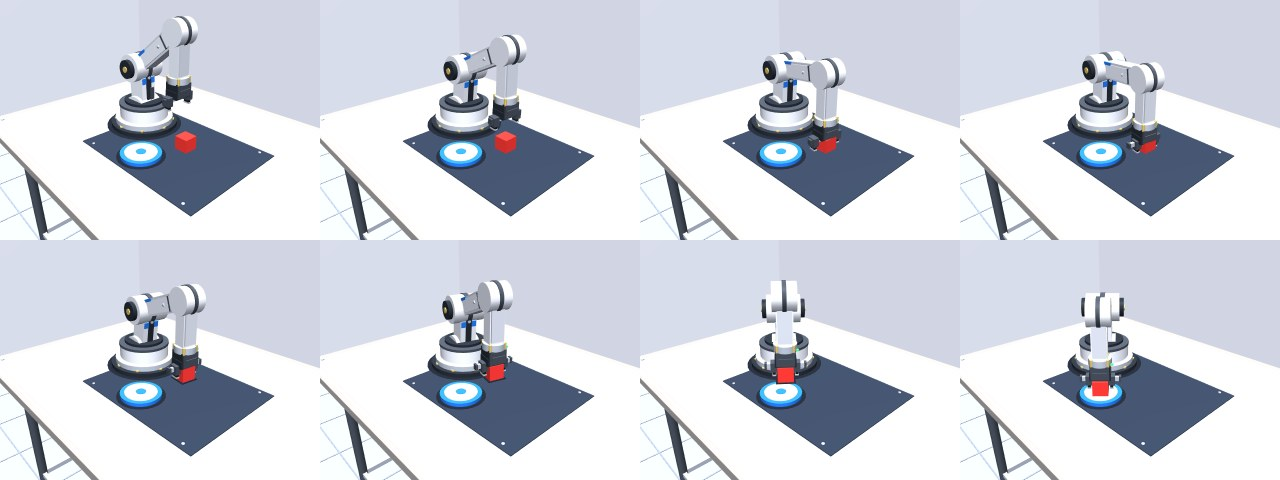
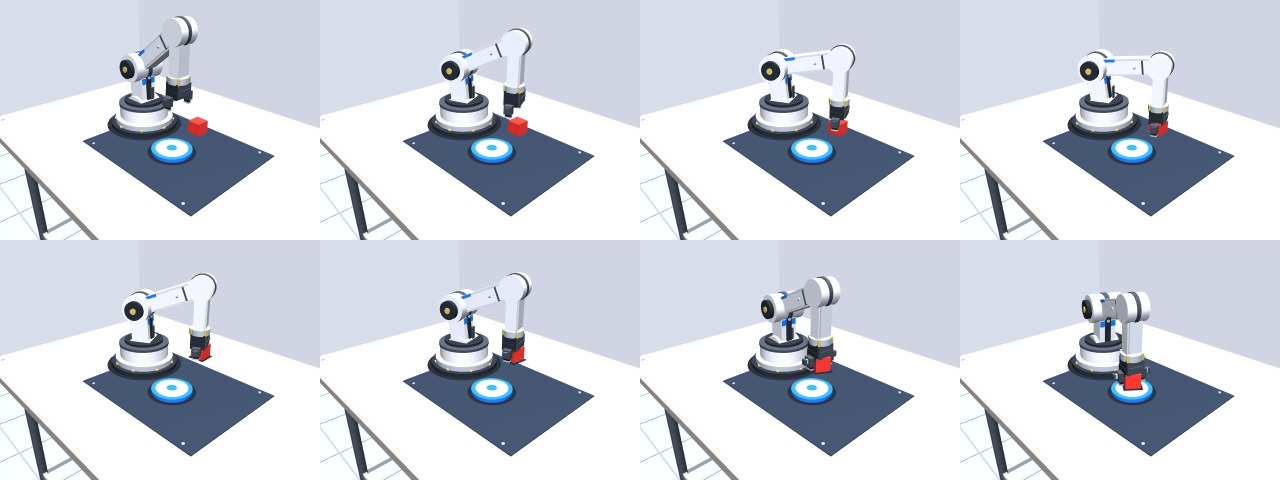
feat: 盘子随机化后的重训结果 + 遥操作加鼠标视角 + 修夹爪抓不牢
盘子随机化的结论（重要）：
- 把盘子位置也随机化之后重采 300 条、重训 40000 步，分布内仍然 50/50 全中，
  开环也是 50/50。**挪动目标位置制造不出学习难度**，这个任务对 ACT 还是太简单。
- 唯一可测的退化是落点精度：固定盘子 ~3 mm → 随机盘子 ~8 mm。说明模型确实不再
  "预知"盘子位置，但完全扛得住。
- 下一版要真变难，得动方块朝向、干扰物、遮挡这些。

夹爪抓不牢（用户实际操作的反馈）：
- 手指 kp=150 时两根手指合计只有约 0.3 N 正压力，方块重 0.4 N。
  靠摩擦勉强吊着，搬运时在爪内滑 40 mm，动作大一点 1/3 概率直接甩掉。
- 提到 400：滑移 6.9 mm，晃动测试 3/3 全没掉。夹持位不变（0.004），不会夹坏方块。

遥操作：
- 加鼠标控制视角：左键拖动转、滚轮缩放、R 回正。死角里能转过去看，不用猜
- 修 --ood 评估报错：外部分指定方块位置时，盘子采样不该再要求"专家轨迹可达"，
  因为分布外测试本来就是专家够不着的位置

文档：README 更新到 v2 结果，换掉策略示意图（改成盘子随机的那版）。

diff --git a/键位说明.html b/键位说明.html
@@ -114,6 +114,36 @@
     </div>
   </div>
 
+  <h2>看视角（鼠标）</h2>
+  <div class="rows">
+
+    <div class="row view">
+      <div class="keys"><kbd class="wide">左键拖动</kbd></div>
+      <div class="desc">
+        绕着场景转一圈
+        <em>抓手被挡住、或者想从侧面确认对位准不准，就转一下。<br>
+            左右拖是绕圈，上下拖是俯仰。</em>
+      </div>
+    </div>
+
+    <div class="row view">
+      <div class="keys"><kbd class="wide">滚轮</kbd></div>
+      <div class="desc">
+        拉近 / 推远
+        <em>往前滚放大，往后滚缩小。</em>
+      </div>
+    </div>
+
+    <div class="row view">
+      <div class="keys"><kbd>R</kbd></div>
+      <div class="desc">
+        视角回正
+        <em>转晕了按一下就回到默认角度。</em>
+      </div>
+    </div>
+
+  </div>
+
   <h2>其余按键</h2>
   <div class="rows">
 

diff --git a/sim/env.py b/sim/env.py
@@ -233,8 +233,10 @@ class PickPlaceEnv:
             if cube_xy is not None:
                 if np.hypot(x - cube_xy[0], y - cube_xy[1]) < MIN_CUBE_PLATE_DIST:
                     continue
-                if not trail_reachable((cube_xy[0], cube_xy[1], CUBE_REST_Z), (x, y)):
-                    continue
+                # 这里**不**校验专家轨迹是否可达。
+                # 这个分支只在外部分指定方块位置时走到（比如评估用的分布外测试），
+                # 那种位置本来就是专家够不着的；拿专家的可达性去卡它，
+                # 会导致"找不到可用盘子"直接报错，测不了。
             return float(x), float(y)
         return None
 

diff --git a/README.md b/README.md
@@ -9,7 +9,7 @@
 
 ---
 
-## 进度（2026-11-06）
+## 进度（2026-11-07）
 
 | 模块 | 状态 | 说明 |
 |---|---|---|
@@ -19,13 +19,14 @@
 | 抓取放置（规则版） | ✅ | 逆解轨迹，全程到位误差 ≈ 1 mm |
 | Web 演示 | ✅ | 实时画面 + 自由视角 + 一句话下指令 |
 | 指令解析层 | ✅ | 多供应商 + 规则兜底，换 LLM 只改配置 |
-| **示范数据采集** | ✅ | 300 条轨迹 / 23750 帧 / 72 MB，专家策略 300/300 成功 |
-| **ACT 策略训练** | ✅ | 40000 步，约 58 分钟，显存峰值 1.66 GB |
-| **闭环评估** | ✅ | 见第四节 |
+| 示范数据采集（机器） | ✅ | 300 条 / 23277 帧，方块和**盘子位置都随机**，专家 300/300 |
+| ACT 策略训练 | ✅ | 40000 步，约 57 分钟，显存峰值 1.66 GB |
+| 闭环评估 | ✅ | 分布内 50/50；见第四节 |
+| **遥操作采集（人类）** | ✅ | 工具做完并验证；等你采数据 |
 | 网页接策略 | ❌ | 现在网页跑的还是逆解轨迹，不是模型 |
 | 真机迁移 | ❌ | 校赛后再考虑 |
 
-**一句话总结**：整条链路已经通了，而且有了**自己训练出来的模型**——它只看画面和关节角，不知道方块坐标，在没见过的位置上也能抓。
+**一句话总结**：整条链路已经通了，而且有了**自己训练出来的模型**——它只看画面和关节角，不知道方块和盘子的坐标，在没见过的位置上也能抓。
 
 ---
 
@@ -115,43 +116,46 @@ ACT（Action Chunking Transformer）：一次预测未来 100 步的动作，用
 
 ## 四、训练结果
 
-**数据**：300 条轨迹 / 23750 帧（4.0 秒/条）
-**训练**：40000 步（约 27 个 epoch），56.6 分钟，11.9 step/s，显存峰值 1.66 GB，L1 loss 0.620 → 0.049
+**数据**：300 条轨迹 / 23277 帧（3.9 秒/条），方块**和盘子**位置都随机
+**训练**：40000 步（约 27 个 epoch），约 57 分钟，11.9 step/s，显存峰值 1.66 GB
 
 ### 1) 成功率
 
-所有评估用的方块位置都在训练分布内但**训练没见过**（评估种子 10000 起，训练用 0~299）。
+所有评估用的位置都是**训练没见过**的（评估种子 10000 起，训练用 0~299）。
 
-| 训练步数 | 每 20 步重规划 | 开环（执行 100 步再重规划） |
+| 条件 | 每 20 步重规划 | 开环（一次预测完，中途不看反馈） |
 |---|---|---|
-| 10 000 | 20/20 = 100% | 29/30 = 97% |
-| 20 000 | 30/30 = 100% | 30/30 = 100% |
-| 30 000 | 30/30 = 100% | 29/30 = 97% |
-| **40 000（最终）** | **50/50 = 100%** | **49/50 = 98%** |
+| 分布内 | **50/50 = 100%** | **50/50 = 100%** |
 
-> 各档样本量不同（20 / 30 / 30 / 30 / 50 局），早期只是快速确认，最终一档才跑满 50 局。
-> 「开环」是最苛刻的用法：开局看一帧，直接把整段动作预测完，中途不看反馈。
+> 「开环」是最苛刻的用法：开局看一帧就把整段动作预测完。连它都满分，说明这任务对 ACT 确实简单。
 
 ![策略执行](docs/images/policy.jpg)
 
-> 图：**训练出来的 ACT 策略**在执行抓放（由左到右、先上后下）。方块位置是随机化的，模型只看画面。
+> 图：**训练出来的 ACT 策略**在执行抓放（由左到右、先上后下），方块和盘子位置都是随机的。
 
 ### 2) 它真的在看画面吗（消融实验）
 
 | 实验 | 成功率 | 结论 |
 |---|---|---|
 | 正常 | 50/50 = **100%** | |
-| **遮住相机**（画面全黑） | 0/30 = **0%** | 它真的靠画面定位方块，不是背轨迹 |
+| **遮住相机**（画面全黑） | 0/30 = **0%** | 它真的靠画面定位，不是背轨迹 |
 | 抹掉关节角（全置 0） | 5/30 = **17%** | 画面里也能看出机械臂位置，所以还剩一点；但本体感知是必需的 |
-| 分布外（半径 0.25~0.285 m） | 13/30 = **43%** | 训练只到 0.245 m。这是泛化边界，成功的几局落点也从 ~3 mm 退化到 ~15 mm |
+| 分布外（方块半径 0.25~0.285 m） | 19/30 = **63%** | 训练只到 0.245 m。失败的几乎都是"没夹起来"，成功那几局落点也从 ~8 mm 退化到 ~20 mm |
 
 **这组实验比「成功率 100%」更能说明问题**：一个背固定轨迹的模型，遮住相机成功率不会掉。
 
-### 3) 老实说
+### 3) 老实说：把盘子也随机化，**没有**让任务变难
 
-- 这个任务对 ACT **偏简单**，10000 步就接近饱和。继续训练主要改善的是「开环」这种更难的用法（97% → 98%），闭环一直是满分。
-- 出了训练分布就掉到 43%。说明现在的泛化主要来自「同一片区域内插」，不是「任意位置都能干」。
-- 所以下一步真正该做的不是继续堆训练步数，而是**把任务做难**（方块朝向随机、盘子位置随机、加干扰物），让成功率有提升空间，故事也更完整。
+这是这一版最该记住的结论。
+
+- 上一版（2026-11-06）盘子固定在 (0.15, −0.14)，模型闭环 100%、开环 98%。
+- 这一版把盘子也在半径 0.165~0.240 m 内随机化，本以为模型必须"在画面里找盘子"，结果**闭环和开环都还是 100%**。
+- 唯一可测的退化是**落点精度**：固定盘子时 ~3 mm，随机盘子后 ~8 mm。说明它确实不再"预知"盘子在哪，但 ACT 完全扛得住这个变化。
+
+**结论**：光靠"挪动目标位置"制造不出学习难度。这个任务对 ACT 来说太简单了，10000 步就饱和。
+下一版要真正变难，得动这几处：**方块朝向随机**（考验抓取姿态）、**加干扰物**（考验语言指代）、**堆叠/遮挡**（考验空间推理）。
+
+- 出了训练分布就掉到 63%，说明现在的泛化主要是"同一片区域内插"，不是"任意位置都能干"。
 
 ---
 
@@ -167,11 +171,14 @@ sim/
 scripts/
   check_env.py       环境自检（七项）
   check_dataset.py   数据集体检
-  collect.py         采集示范数据
+  collect.py         采集机器示范（解析逆解专家自动生成）
+  teleop.py          采集人类示范（键盘 / 鼠标操作，自己开窗口）
   train_act.py       ACT 训练入口
-  eval_act.py        闭环评估
+  eval_act.py        闭环评估（含消融、分布外实验）
   grasp_demo.py      逆解抓取全流程
   stage0_demo.py     最早的版本：窗口里看机械臂按脚本动
+键位说明.html         遥操作的键位图（浏览器打开）
+遥操作.cmd            双击启动遥操作
 src/llm/             指令解析层
 tests/
   test_llm.py        指令解析的离线测试
@@ -194,14 +201,16 @@ config.json          场景物体表、LLM 供应商链、缓存路径
 3. **Windows 建符号链接需要特权**，训练存档的 `checkpoints/last` 会失败 → 自动降级成目录联接（junction）
 4. **别装 torchcodec**：和 torch 2.11 组合时 DLL 加载失败，LeRobot 会自动回落 `pyav`
 5. **阴影贴图**在这个尺寸下会出锯齿，已关闭，改用几何体做的接触阴影
-6. **机械臂连杆不参与碰撞**，只有手指参与——否则会自碰撞挡死可达范围
+6. **机械臂连杆不参与碰撞**，只有手指参与——否则会自碰撞挡死可达范围。代价是**会穿模**（连杆能穿过桌面）。可以只让连杆和桌子碰撞、不和自己碰撞（MuJoCo 位掩码能分开），但专家轨迹要重新验证，操作时手臂也会被桌子顶住，比穿模更烦，所以先留着
 7. **工具竖直向下时可达范围比想象的小得多**：手腕到肩的距离必须落在 [0.050, 0.350] m。所以采样点要**逐点验证整条轨迹**，不能只验证抓取点
 8. 网页里的输入框是**下机器人指令**的，不是终端
+9. **夹爪刚度不能太低**。手指 kp=150 时两根手指合计只有约 0.3 N 正压力，而方块重 0.4 N——靠摩擦勉强吊着，搬运时在爪内滑 40 mm，动作大一点就有 1/3 概率甩掉。提到 400 后：滑移 6.9 mm、晃动测试 3/3 全都没掉
 
 ---
 
 ## 七、更新日志
 
+- **2026-11-07**　盘子位置随机化（mocap 体）→ 重采 300 条 → 重训 → 分布内仍 100%；**结论：挪动目标位置制造不出难度**。新增遥操作采集工具（Tk 窗口 + 鼠标转视角 + 精细档）；修好夹爪刚度不足导致搬运掉方块（1/3 概率）；补键位说明
 - **2026-11-06**　采 300 条示范 → ACT 训练 40000 步 → 闭环评估 100%；逆解改闭式解（修掉"够不着不报错"的静默错解）；伺服刚度提高 8 倍（末端下垂 10.9 mm → 1.5 mm）；修中文路径下的视频编码失败；补消融与分布外实验
 - **2026-11-05**　仿真环境 + 3D 场景重建 + 逆运动学 + 抓取跑通 + 网页 Demo 自由视角
 - **2026-11-04**　项目立项，完成环境搭建（Python 3.12 / cu128 / MuJoCo / LeRobot）、指令解析层、验收清单
